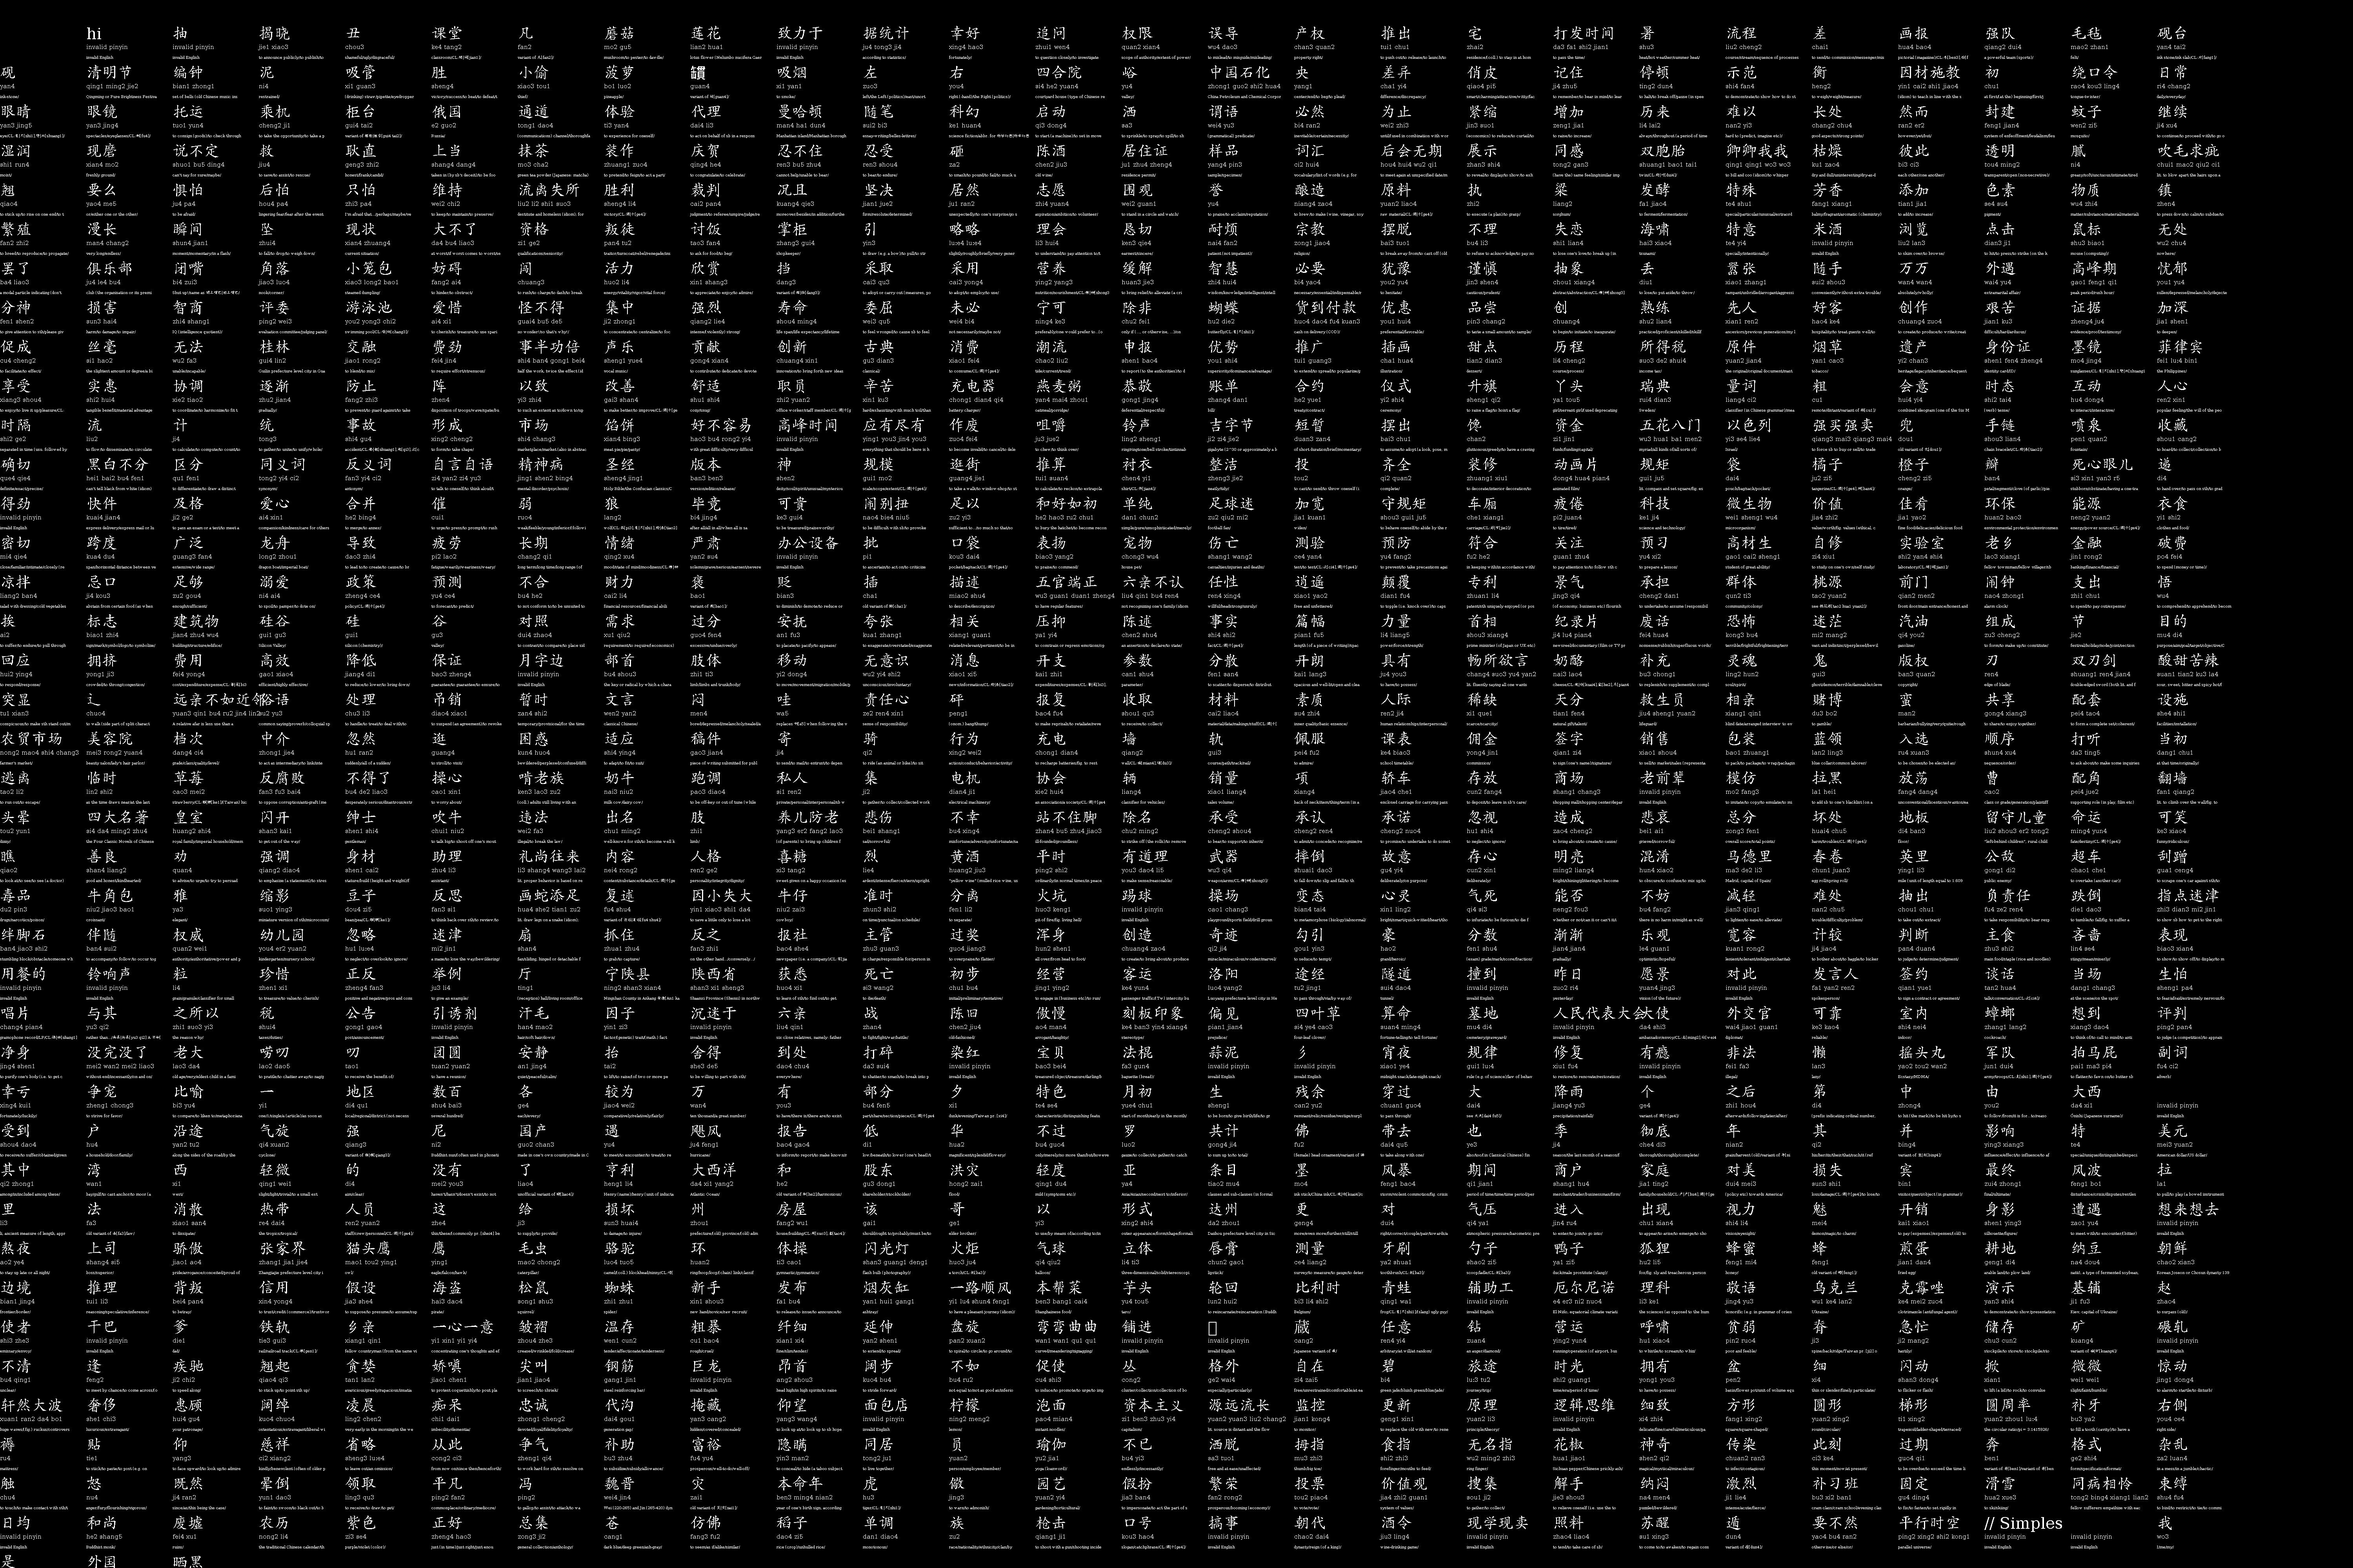
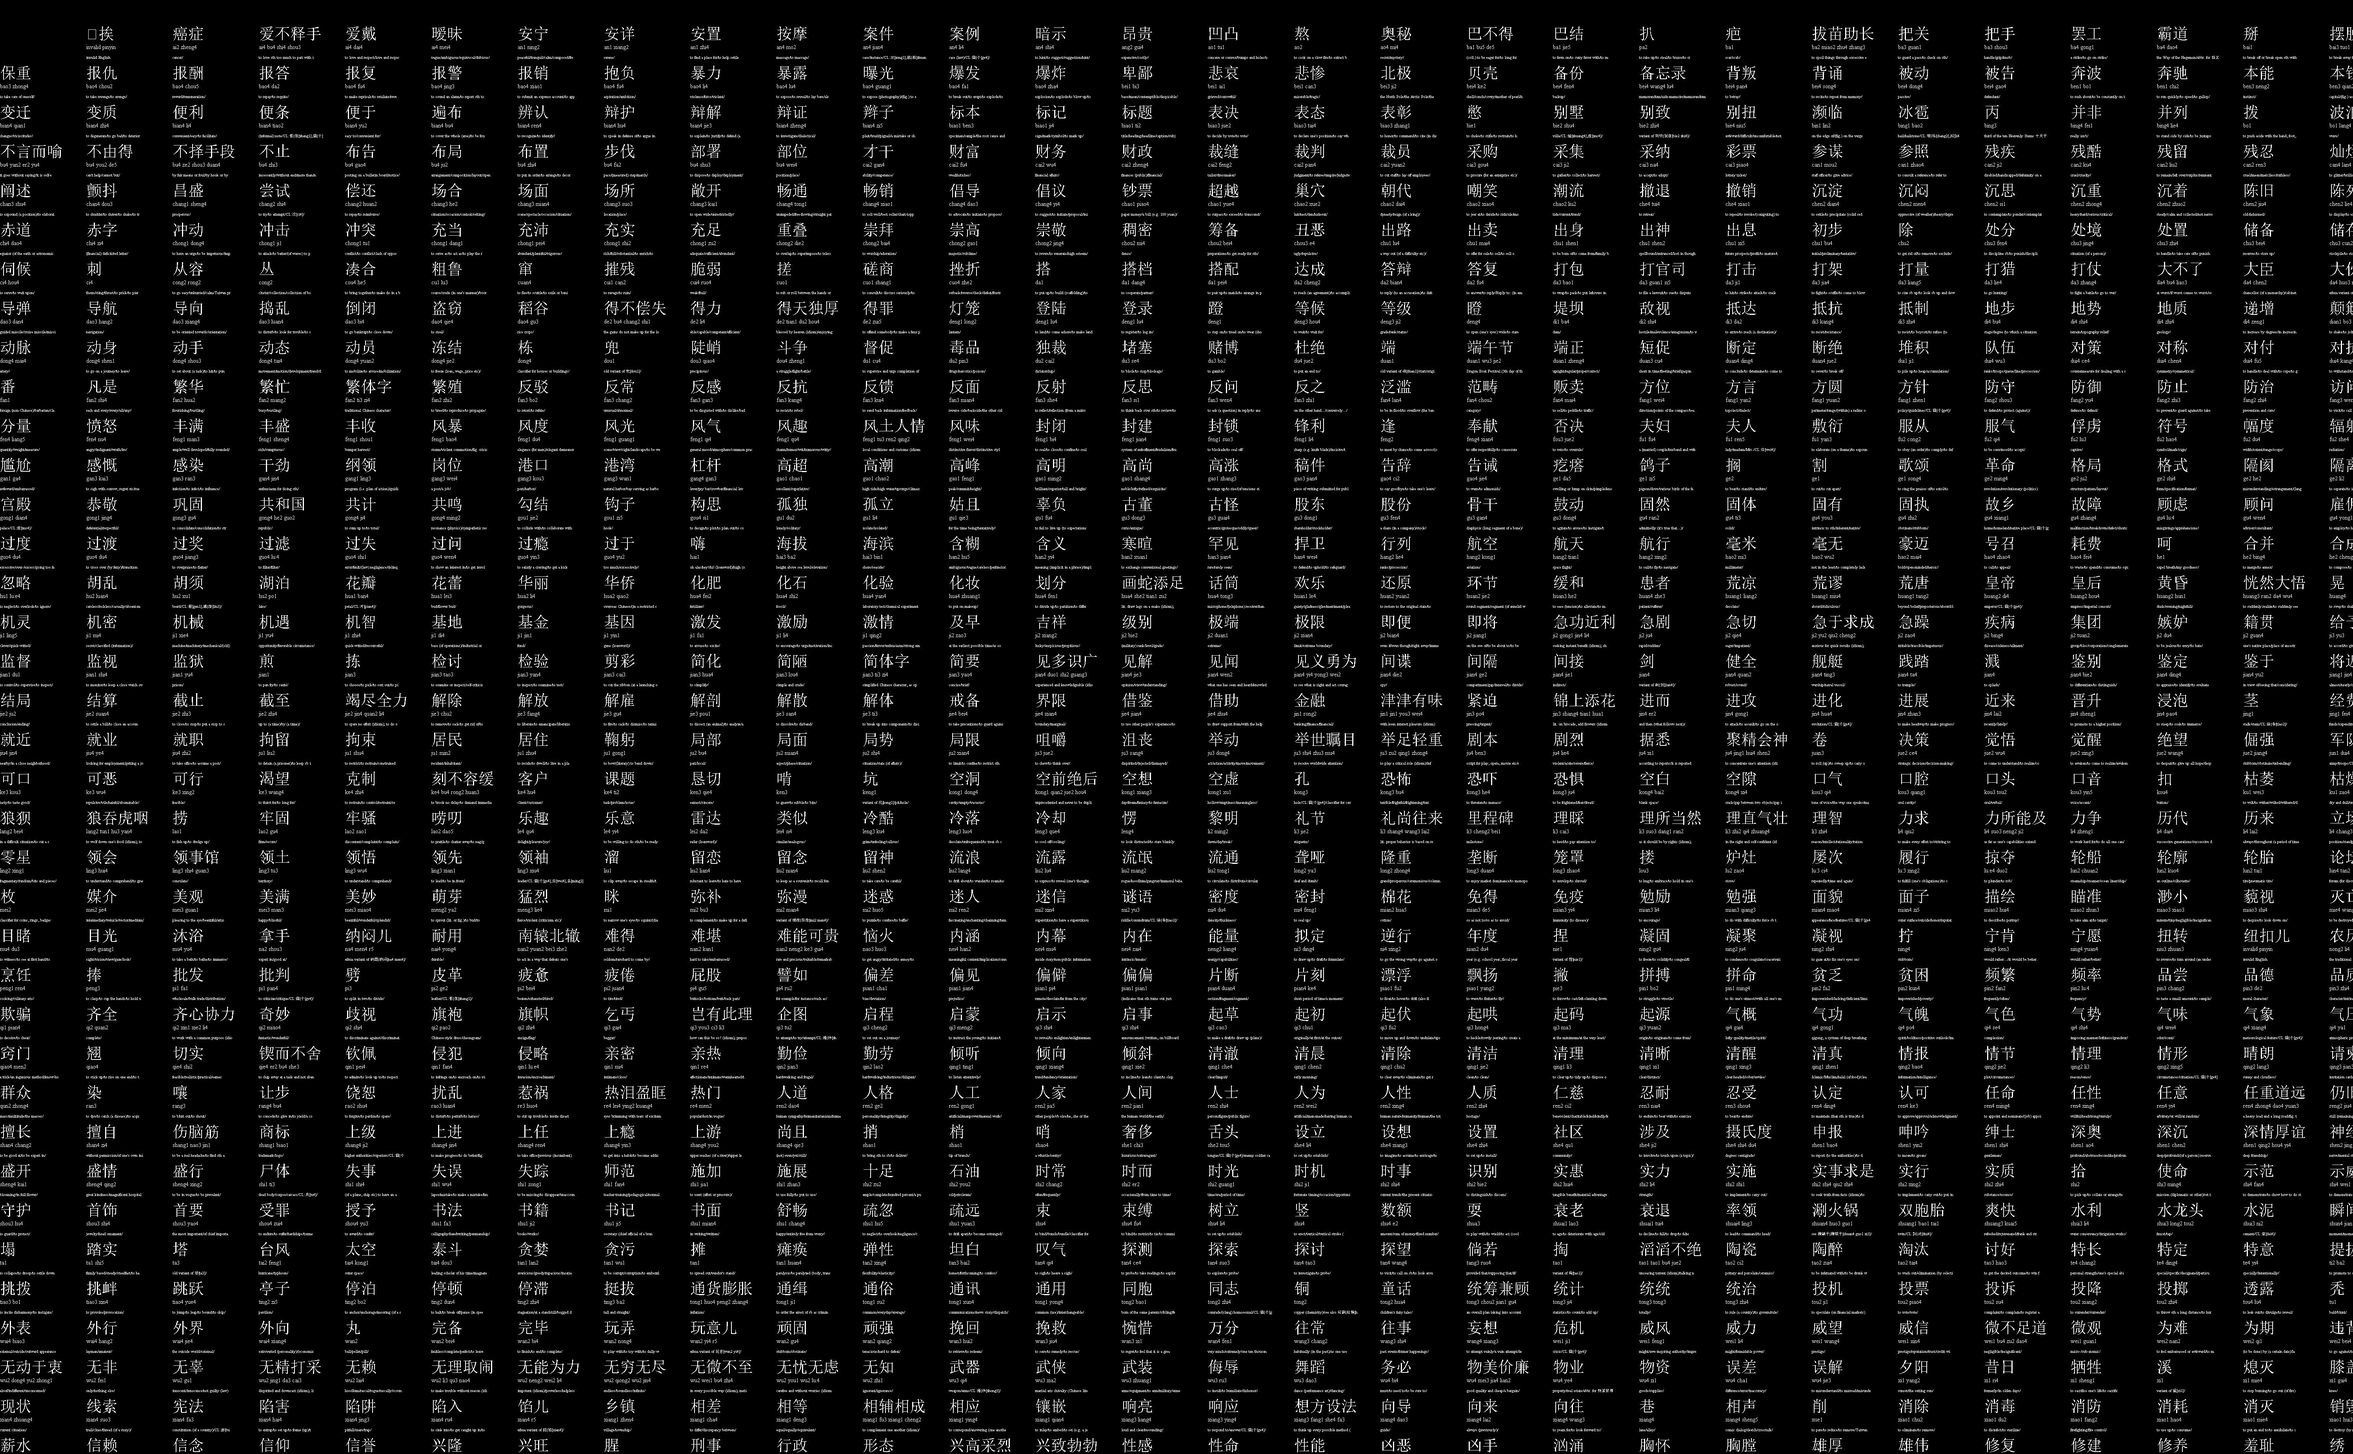
Make a start on calculating ratios and stuff in a reasonable way

diff --git a/Main.java b/Main.java
@@ -11,13 +11,20 @@ public class Main extends JPanel{
 
   public static int X_CONST=220;
   public static int Y_CONST=100;
+  public static int charRatio = X_CONST / Y_CONST;
   public static int count=0;
 
   public static String FILE_PATH = "HSK6";/*"pleco-out.txt"*/
 
+  private static final double pageRatio = 1.618; //TODO: maybe allow other formats e.g. letter, portrait, ...
+
+  private static final int xWidth = 6000;
+
+  //TODO:THERE ARE A LOT OF POTENTIAL precision issues and stuff!!
   public static void paintStuff() throws IOException {
-    BufferedImage bi=new BufferedImage(6000,4000,
-                                        BufferedImage.TYPE_INT_BGR);
+//    BufferedImage bi=new BufferedImage(6000,4000,
+  //                                      BufferedImage.TYPE_INT_BGR);
+    BufferedImage bi = new BufferedImage(xWidth, (int)(xWidth/ pageRatio), BufferedImage.TYPE_INT_BGR);
     Extract.readInDictionary();
     Graphics2D g2 = bi.createGraphics();
 //    g2.setColor(Color.WHITE);
@@ -27,21 +34,29 @@ public class Main extends JPanel{
     Font pinyinFont = new Font("Serif", Font.PLAIN, 15);
     Font latinFont = new Font("Serif", Font.PLAIN, 10);
 
-    final long noLines = Files.lines(Paths.get(FILE_PATH)).count();
+    final long noLines = Files.lines(Paths.get(FILE_PATH)).count();//+1? as we seem to start at 0 or smth (first square is blank - though that needs fixing)
 
     try (BufferedReader br = new BufferedReader(
                                 new FileReader(FILE_PATH))) {
       String line;
       while ((line = br.readLine()) != null&&count<noLines) {
-        int NO_COLS = 26;
+        //int noCols = //26;
+      //  int noRows = (int)Math.ceil(Math.sqrt(Math.ceil(noLines / pageRatio)));//TODO:is using ceil twice here too generous?
+      //  int noCols = (int) Math.ceil(noRows * pageRatio);//THIS ASSUMES width and height of items are the same (THEY ARE NOT)
+
+//        int noRows = (int)Math.ceil(Math.sqrt(noLines/(pageRatio*charRatio)));//TODO:write formulas and stuffs
+  //      int noCols = (int)(noLines/noRows);
+
+        int noRows = (int) Math.ceil(Math.sqrt((charRatio * noLines))/pageRatio);
+        int noCols = (int) (noLines/noRows);
         // process the line.
         count++;
-        int x=X_CONST*(count%NO_COLS);//30);
-        int y=Y_CONST*(count/NO_COLS+1);
+        int x=X_CONST*(count%noCols);//30);
+        int y=Y_CONST*(count/noCols+1);
         g2.setFont(font);
         g2.drawString(line, x,y);
-        int y_pinyin = (Y_CONST )*(count/NO_COLS+1) + Y_CONST/4;
-        int y_text = (Y_CONST )*(count/NO_COLS+1) + Y_CONST/2;
+        int y_pinyin = (Y_CONST )*(count/noCols+1) + Y_CONST/4;
+        int y_text = (Y_CONST )*(count/noCols+1) + Y_CONST/2;
         g2.setFont(pinyinFont);
         Word word= Extract.getWordFromChinese(line);
         String pinyin = "invalid pinyin";
